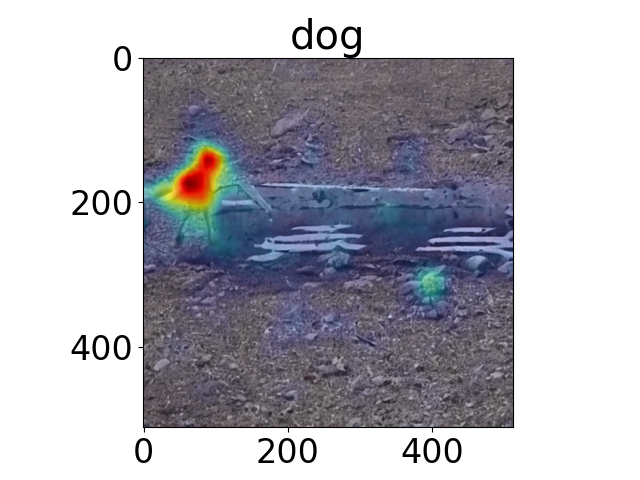
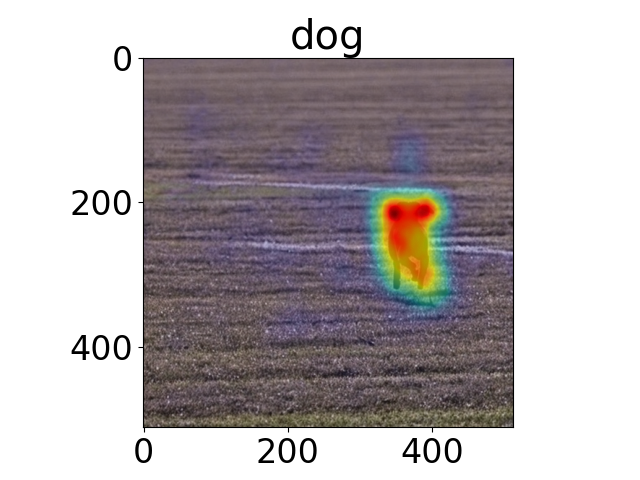
init

diff --git a/daam/trace.py b/daam/trace.py
@@ -96,6 +96,7 @@ class DiffusionHeatMapHooker(AggregateHooker):
             A heat map object for computing word-level heat maps.
         """
         heat_maps = self.all_heat_maps
+        #print(len(heat_maps.ids_to_heatmaps))
         
 
         if prompt is None:
@@ -130,7 +131,7 @@ class DiffusionHeatMapHooker(AggregateHooker):
 
             #print(maps.shape)
             maps = maps.mean(0)[:, 0]
-            #print(maps.shape)
+            
             
             maps = maps[:len(self.pipe.tokenizer.tokenize(prompt)) + 2]  # 1 for SOS and 1 for padding
             #print(maps.shape)
@@ -226,7 +227,7 @@ class UNetCrossAttentionHooker(ObjectHooker[Attention]):
             for map_ in x:
                 #print(map_.shape)
                 map_ = map_.view(map_.size(0), h, w)
-                #print(map_.shape)
+                #TODO: fix this
                 map_ = map_[map_.size(0) // 2:]  # Filter out unconditional
                 #print(map_.shape)
                 maps.append(map_)
@@ -252,8 +253,11 @@ class UNetCrossAttentionHooker(ObjectHooker[Attention]):
     ):
         """Capture attentions and aggregate them."""
         batch_size, sequence_length, _ = hidden_states.shape
+        #print(hidden_states.shape)
         attention_mask = attn.prepare_attention_mask(attention_mask, sequence_length, batch_size)
+        #print('hidden_states',hidden_states.shape)
         query = attn.to_q(hidden_states)
+        #print(query.shape)
 
         if encoder_hidden_states is None:
             encoder_hidden_states = hidden_states
@@ -261,13 +265,19 @@ class UNetCrossAttentionHooker(ObjectHooker[Attention]):
             encoder_hidden_states = attn.norm_cross(encoder_hidden_states)
 
         key = attn.to_k(encoder_hidden_states)
+        #print('key',key.shape)
         value = attn.to_v(encoder_hidden_states)
+        #print(value.shape)
 
         query = attn.head_to_batch_dim(query)
+        #print(query.shape)
         key = attn.head_to_batch_dim(key)
+        #print('key',key.shape)
         value = attn.head_to_batch_dim(value)
-
+        #print(value.shape)
         attention_probs = attn.get_attention_scores(query, key, attention_mask)
+        #print(attention_probs.shape)
+
 
         # DAAM save heads
         if self.save_heads:
@@ -284,8 +294,9 @@ class UNetCrossAttentionHooker(ObjectHooker[Attention]):
         if attention_probs.shape[-1] == self.context_size and factor != 8:
             
             # shape: (batch_size, 64 // factor, 64 // factor, 77)
+            #print(attention_probs.shape)
             maps = self._unravel_attn(attention_probs)
-
+            
             for head_idx, heatmap in enumerate(maps):
                 self.heat_maps.update(factor, self.layer_idx, head_idx, heatmap)
 

diff --git a/testdaam.py b/testdaam.py
@@ -14,7 +14,7 @@ gen = set_seed(2)  # for reproducibility
 
 with torch.cuda.amp.autocast(dtype=torch.float16), torch.no_grad():
     with trace(pipe) as tc:
-        out = pipe(prompt,negative_prompt=prompt, num_inference_steps=30, generator=gen)
+        out = pipe(prompt,num_inference_steps=30, generator=gen)
         heat_map = tc.compute_global_heat_map()
         heat_map = heat_map.compute_word_heat_map('dog')
         heat_map.plot_overlay(out.images[0],out_file='dog.png')

diff --git a/daam/heatmap.py b/daam/heatmap.py
@@ -124,7 +124,7 @@ class GlobalHeatMap:
         #print(merge_idxs,word_idx)
         #print(self.heat_maps[merge_idxs].shape)
         #print(self.heat_maps[merge_idxs].mean(0).shape)
-        print(merge_idxs,word_idx)
+        #print(merge_idxs,word_idx)
         
         return WordHeatMap(self.heat_maps[merge_idxs].mean(0), word, word_idx)
 
